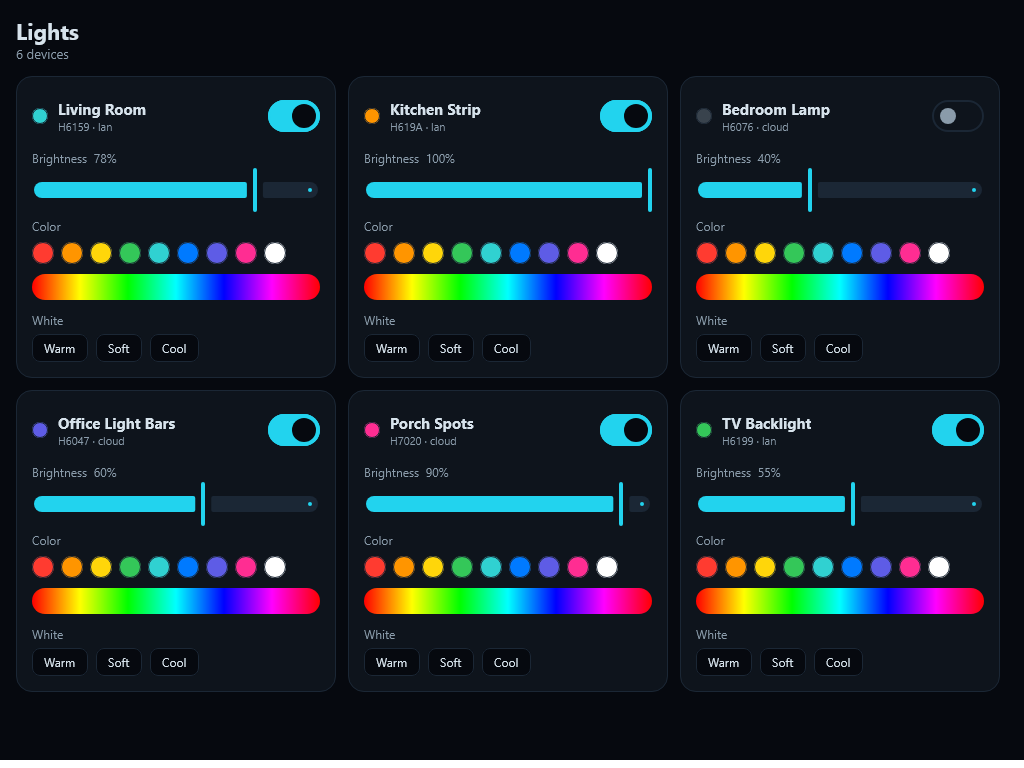
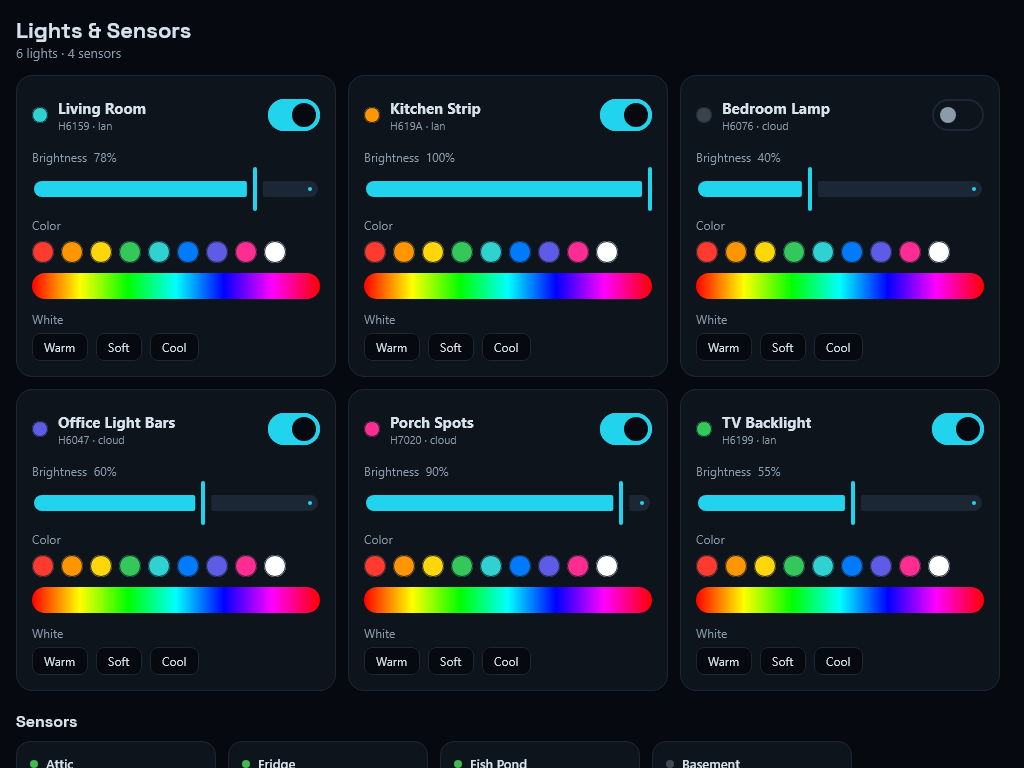
site: Lights & Sensors — split thermometers from lights (89 devices live)

diff --git a/index.html b/index.html
@@ -113,17 +113,20 @@
     the service grabs real frames (Nest ~145&nbsp;KB live JPEG, Eufy ~13&nbsp;KB HomeBase thumb) on
     <code>/api/snapshot</code>. The wall renders in-app (run the desktop or tablet client to see it).</p>
 
-  <h2>Lights <span class="tag">Govee · LAN + cloud</span></h2>
-  <p class="note">Full Govee control, ported off the old Home-Assistant light groups. The service speaks
-    the <b>Govee LAN API</b> (UDP — local + instant, no key) with the <b>cloud Developer API</b> as a
-    fallback that reaches every device. Each light gets a card with a power switch, a brightness slider,
-    preset color swatches, a <b>custom hue-strip color picker</b> (Canvas, tap or drag), and Warm / Soft /
-    Cool white-temperature chips. Control is optimistic and available to wall kiosks, not just the admin.</p>
+  <h2>Lights &amp; Sensors <span class="tag">Govee · 89 devices live</span></h2>
+  <p class="note">Full Govee control, ported off the old Home-Assistant light groups — and reusing the
+    same account key, so no re-authentication. The service talks to Govee's <b>cloud Developer API v2</b>
+    (all devices) with a <b>LAN API</b> path (UDP, local + instant) for supported models. It classifies
+    each device: <b>81 controllable lights/plugs</b> get a card with a power switch, brightness slider,
+    preset swatches, a <b>custom hue-strip color picker</b> (Canvas, tap or drag) and Warm/Soft/Cool
+    white-temp chips; <b>8 thermo-hygrometers</b> render as read-only <b>temperature + humidity</b> tiles.
+    Control is optimistic and available to wall kiosks, not just the admin.</p>
   <figure>
-    <img src="images/lights.png" alt="CnSite Lights screen — Govee control">
-    <figcaption><b>Lights.</b> Per-device cards — power, brightness, preset swatches, the custom rainbow
-      hue picker, and white-temp chips — over <code>/api/lights</code> + <code>/api/light</code>. The LAN
-      command codecs are unit-tested; live binding needs per-device LAN Control or a cloud API key.</figcaption>
+    <img src="images/lights.png" alt="CnSite Lights &amp; Sensors screen — Govee">
+    <figcaption><b>Lights &amp; Sensors.</b> Light cards (power, brightness, swatches, the custom rainbow
+      hue picker, white-temp) plus a Sensors row of live temperature/humidity tiles, over
+      <code>/api/lights</code> + <code>/api/light</code>. Verified live against the account: 81 lights + 8
+      sensors with real state.</figcaption>
   </figure>
 
   <h2>Architecture</h2>